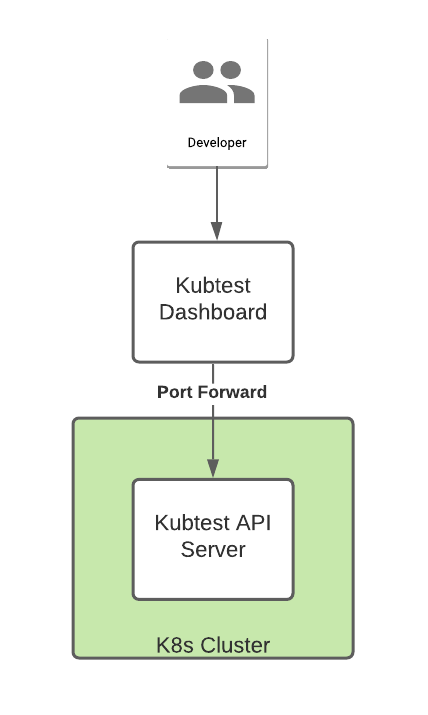
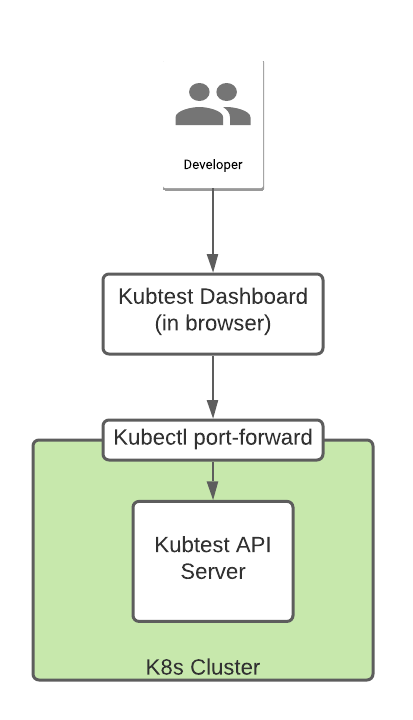
fixed images to correctly represent the dasboard running in the users browser

Changed region(s): [[0.0581, 0.0615, 0.9298, 0.9538]]

diff --git a/README.md b/README.md
@@ -2,8 +2,8 @@
 
 A simple read-only dashboard for real-time Kubtest results.
 
-The Kubtest Dashboard is deployed as a standalone web application in a cluster running Kubtest. It communicates
-with the Kubtest api-server via an Ingress controller (either provided or bundled):
+The Kubtest Dashboard is deployed as a standalone web application in a cluster running Kubtest. It runs in 
+the browser and communicates with the Kubtest api-server via an Ingress controller (either provided or bundled):
 
 ![img.png](docs/images/very-high-level-architecture.png)
 
